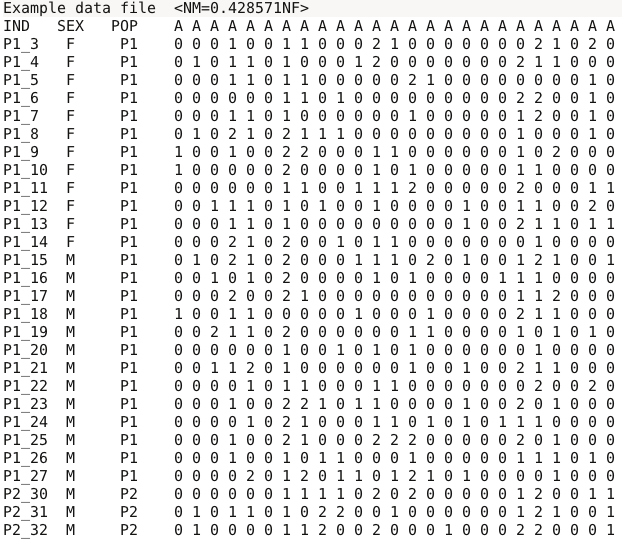
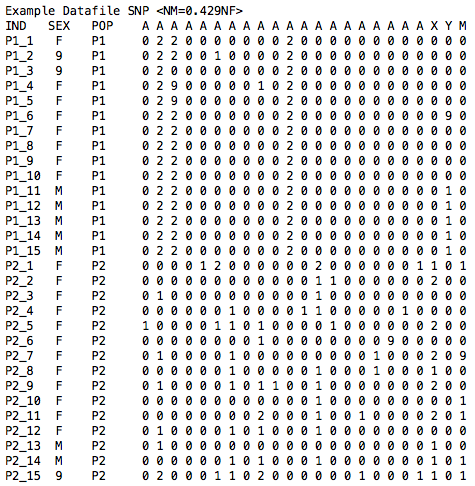
modif notice to modify snp example

diff --git a/Notice-DIYABC-v2/Implementation.tex b/Notice-DIYABC-v2/Implementation.tex
@@ -113,7 +113,17 @@ In the second example, the species is haploid. Individuals have been genotyped a
 \includegraphics[scale=0.6]{gui_pictures/screenga002.png}
 \end{figure}
 
-In the third example, the species is diploid and has been genotyped at a large number of SNP autosomal loci. The first line provides the title which includes the species sex-ratio. The second line indicates what's in the different columns : individual name in column 1, individual sex in column 2, population name in column 3 and one column per SNP locus (the letter \texttt{A} indicates that the autosomal locus is autosomal; it would be \texttt{X} for an X-linked locus, \texttt{Y} for a Y-linked locus and \texttt{M} for a mitochondrial locus) . Columns are sparated by one or more spaces. SNP are coded 0, 1 or 2 according to the number of reference alleles at the corresponding locus.  Only the top left part of the data file is represented below :
+In the third example, the species is diploid and was genotyped at 23 SNP loci: 20 autosomal loci, 1 
+ X-linked locus, 1 Y-linked locus and 1 mitochondrial locus. The first line provides the title which includes
+ the species sex-ratio. The second line indicates: individual name in column 1, individual sex in column 2 
+ (\texttt{M} for male, \texttt{F} for female, \texttt{9} or any other letter if unknown), population name in 
+column 3 and one column per SNP locus (letter \texttt{A} for an autosomal locus, \texttt{X} for an X-linked
+locus, \texttt{Y} for a Y-linked locus and \texttt{M} for a mitochondrial locus). Columns are separated by
+one or more spaces. SNP genotypes are coded \texttt{0}, \texttt{1} or \texttt{2} (\texttt{9} for missing data) according 
+ to the number of reference alleles at the corresponding locus. Note that the sex has no influence on simulations
+ for autosomal, mitochondrial or haploid loci (any sex can be hence declared). For individuals with an unknown sex 
+ (denoted \texttt{9}, see \texttt{IND P1\_2}, $P1\_3$  and $P2\_15$), data for autosomal (as well as mitochondrial and haploid) loci will be taken into account and simulated, whereas data for X-linked and Y-linked loci will not be taken into account and not 
+ simulated (cf. simulations are simply not possible to proceed in this case as the number of gene copy is sex dependent).
 
 \begin{figure}[h]
 \includegraphics[scale=0.5]{gui_pictures/screenga003.png}
